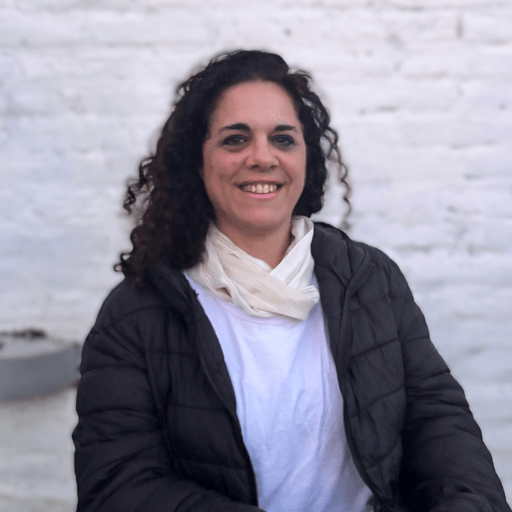
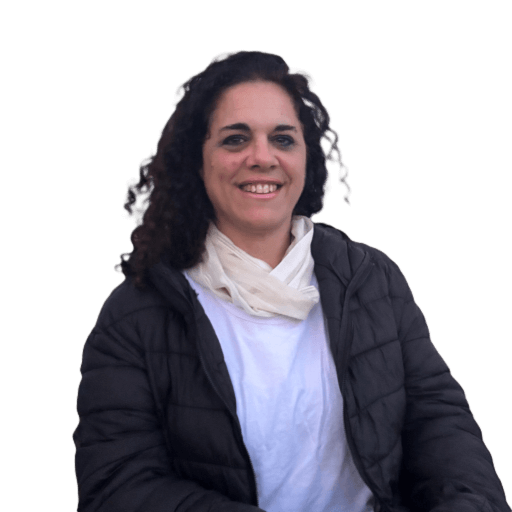
Actualizadas imágenes de candidatos y estilos de tarjetas de candidato

diff --git a/css/styles.css b/css/styles.css
@@ -55,7 +55,7 @@ img { max-width: 100%; height: auto; display: block; }
 /* Candidate cards */
 .candidate-card { border: none; border-radius:14px; background:#fff; box-shadow:0 4px 18px -6px rgba(0,0,0,.08); transition: transform .3s, box-shadow .3s; }
 .candidate-card:hover { transform: translateY(-6px); box-shadow:0 14px 38px -10px rgba(0,0,0,.2); }
-.candidate-img { background: none; aspect-ratio:1/1; width:100%; height:auto; border-radius:14px 14px 0 0; display:flex; align-items:center; justify-content:center; color:#222; font-size:.75rem; font-weight:600; letter-spacing:1px; position:relative; overflow:hidden; }
+.candidate-img { background: #D8D9DB; aspect-ratio:1/1; width:100%; height:auto; border-radius:14px 14px 0 0; display:flex; align-items:center; justify-content:center; color:#222; font-size:.75rem; font-weight:600; letter-spacing:1px; position:relative; overflow:hidden; }
 /* Fallback para navegadores sin aspect-ratio */
 .candidate-img::before { content:""; display:block; padding-top:100%; /* mantiene cuadrado */ }
 .candidate-img > img { position:absolute; inset:0; display:flex; align-items:center; justify-content:center; }
